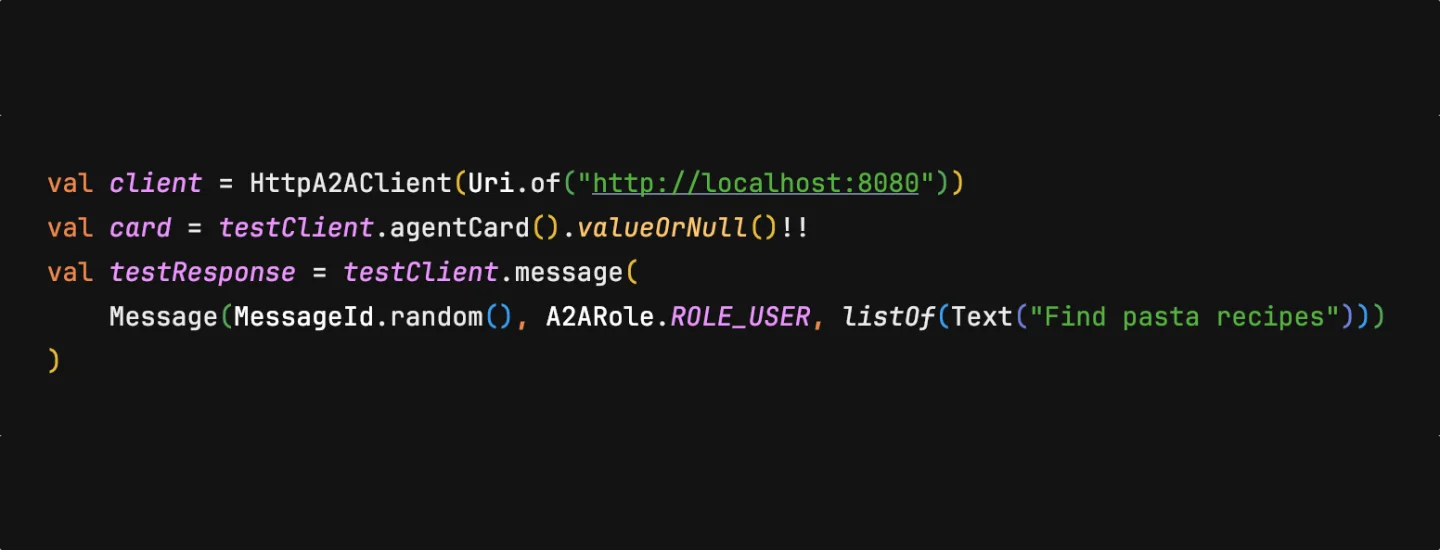
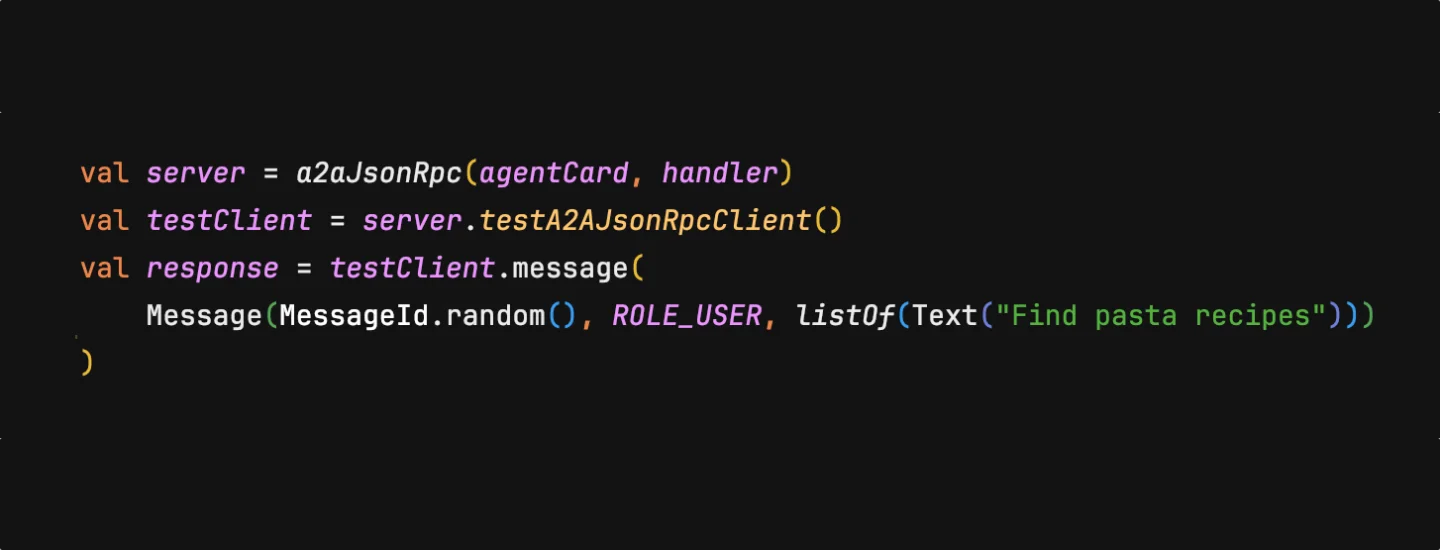
Update steps

diff --git a/src/website/content/_sites/a2a/step4.kt b/src/website/content/_sites/a2a/step4.kt
@@ -8,11 +8,11 @@ import org.http4k.ai.a2a.model.Part.Text
 import org.http4k.core.Uri
 
 
-val client = HttpA2AClient(Uri.of("http://localhost:8080"))
-val card = client.agentCard()
-val testResponse = client.message(
-    Message(MessageId.random(), A2ARole.ROLE_USER, listOf(Text("Find pasta recipes")))
-)
+            val client = HttpA2AClient(Uri.of("http://localhost:8080"))
+            val card = client.agentCard()
+            val testResponse = client.message(
+                Message(MessageId.random(), A2ARole.ROLE_USER, listOf(Text("Find pasta recipes")))
+            )
 
 
 val a = testResponse